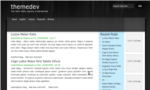
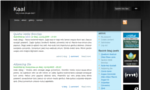
final changes to the theme before launch

diff --git a/kaal.css b/kaal.css
@@ -1,9 +1,7 @@
-	html,
-	body {
+	html,	body {
 		margin:0;
 		padding:0;
 		height:100%;
-		
 		margin:0px;
 		font-family:Verdana, Geneva, sans-serif;
 		font-size:12px;
@@ -15,7 +13,13 @@
 	  font-size:30px;
 	}
 	
-	a:visited {color:#658a9b;}
+	ul.pager a:hover {
+	  border:0;
+	}
+	
+	a:visited {
+	  color:#658a9b;
+	}
 	
 	.submitted {
 		color:#009900;
@@ -57,7 +61,6 @@
 		color:#000000;
 	}
 	
-	
 	.submitted a {
 		color:#5775b5;
 	}
@@ -86,6 +89,7 @@
 	#board a {
 		color:white;
 	}
+	
 	#board a:hover {
 		color:white;
 	}
@@ -133,12 +137,7 @@
 		text-align:right;
 	}
 	
-	.content ul {
-		
-	}
-	
 	.content ul li {
-		
 		list-style:url(images/tick.gif);
 		list-style-position:outside;
 		margin-left:0px;
@@ -191,7 +190,6 @@
 		background:url(images/1bgr_body_top.png) no-repeat;
 		padding:0 0 40px 0;
 		width:950px;
-		
 	}
 	
 	#footer {

diff --git a/page.tpl.php b/page.tpl.php
@@ -17,15 +17,14 @@
 		  <div class="floatleft span-13">
 	      <?php if ($logo || $site_slogan): ?>
 	        <div id="logo-title">
-	
-	          <?php if ($logo && file_exists($logo)): ?>
-	            <div id="logo"><h1><a href="<?php print $front_page; ?>" title="<?php print $site_name; ?>" rel="home"><img src="<?php print $logo; ?>" alt="<?php print $site_name; ?>" id="logo-image" /></a></h1> &nbsp; &nbsp; <?php print $mission; ?></div>
+	          <?php if ($logo): ?>
+	            <div id="logo"><h1><a href="<?php print $front_page; ?>" title="<?php print $site_name; ?>" rel="home"><img src="<?php print $logo; ?>" alt="<?php print $site_name; ?>" id="logo-image" /></a></h1> &nbsp; &nbsp; <?php print $site_slogan; ?></div>
 	          <?php else: ?>
-	          	<div id="logo"><h1><a href="<?php print $front_page; ?>" title="<?php print $site_name; ?>" rel="home"><?php print $site_name; ?></a></h1> &nbsp; &nbsp; <?php print $mission; ?> </div>
+	          	<div id="logo"><h1><a href="<?php print $front_page; ?>" title="<?php print $site_name; ?>" rel="home"><?php print $site_name; ?></a></h1> &nbsp; &nbsp; <?php print $site_slogan; ?> </div>
 	          <?php endif; ?>
 	
-	          <?php if ($site_slogan): ?>
-	            <div id="site-slogan"><?php print $site_slogan; ?></div>
+	          <?php if ($mission): ?>
+	            <div id="mission"><b><?php print $mission; ?></b></div>
 	          <?php endif; ?>
 						
 	        </div> <!-- /#logo-title -->
